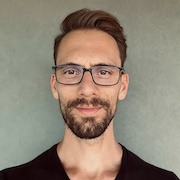
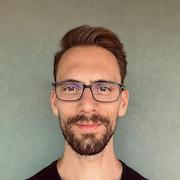
Adjust photo

diff --git a/src/components/PersonalSummary/PersonalSummary.jsx b/src/components/PersonalSummary/PersonalSummary.jsx
@@ -9,7 +9,7 @@ const PersonalSummary = () => (
       <a href="/">
         <Avatar
           alt="Ben Jovanic"
-          src="ben-jovanic.jpg"
+          src="ben-jovanic.jpg?v=2"
           style={{ height: 180, width: 180, margin: 'auto' }}
         />
       </a>
